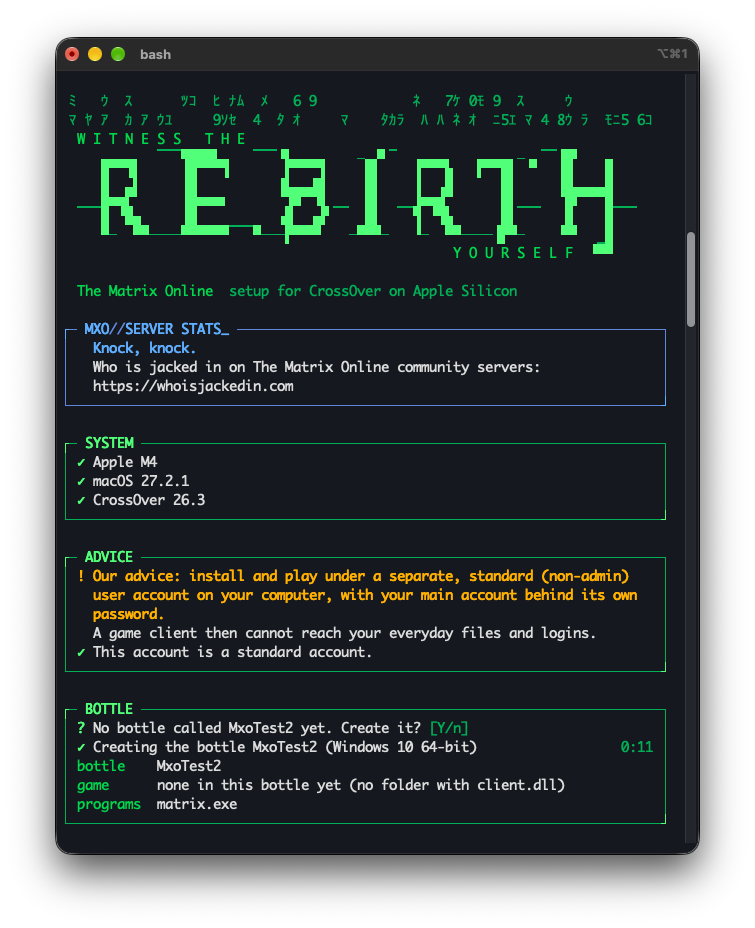
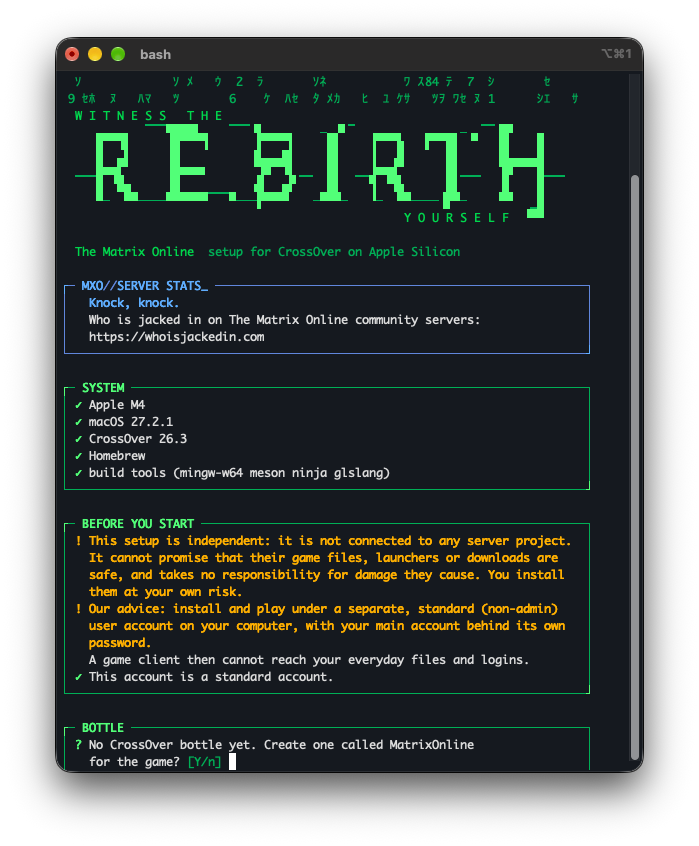
docs: say how long the setup takes and show it as it looks now (#9)
Docs

- README, "What you need": with Homebrew and the build tools in place
the setup does the rest by itself, in about 4 minutes on the M4 test
machine from a new bottle to "Done". A slower connection or an older Mac
takes longer.
- `docs/quick-start.md`, step 6: the same figure in place of "The build
takes 5 to 10 minutes".
- `docs/building.md` and the setup's build line: "a few minutes" in
place of "5 to 10 minutes". The build took about one minute on the M4.
- `docs/setup.png`: a new screenshot with the five-line system check and
the notice before the setup starts, and a caption that matches it.

diff --git a/README.md b/README.md
@@ -41,6 +41,10 @@ MxO Revived at 63 fps, in a window on a 3440×1440 screen.
 
 The setup checks all of this before it changes anything, and says what is missing.
 
+With these in place the setup does everything else by itself. On the M4 test machine it took
+about 4 minutes from a new bottle to "Done". It downloads the game (1.3 GB) and builds the
+speed-up, so a slower connection or an older Mac takes longer.
+
 Tested on an M4 (macOS 27, CrossOver 26.3) and on an M1, the first Apple Silicon chip, so every
 Apple Silicon Mac should run it. The setup can download the game itself.
 
@@ -67,7 +71,7 @@ Everything can also be done by hand, without the script:
 [docs/crossover.md](docs/crossover.md) sets up the bottle and the game, and
 [docs/building.md](docs/building.md#build) builds and installs the speed-up.
 
-![The setup in a Terminal window: its opening words, the frame of the server stats site, the system check, its advice on a separate account and a new bottle being made](docs/setup.png)
+![The setup in a Terminal window: its opening words, the frame of the server stats site, the system check, its notice and advice before it starts, and the question about a new bottle](docs/setup.png)
 
 The setup asks a few questions and then does the rest:
 

diff --git a/docs/quick-start.md b/docs/quick-start.md
@@ -30,7 +30,8 @@ at your own risk ([README](../README.md)).
 5. **Revived only: click through the two installers that open,** Microsoft's .NET and then
    Revived's. When Revived's asks where The Matrix Online is installed, choose `C:\Games\MxO`.
    Keep the folder it offers for Revived itself, and do not start the game from there.
-6. **Wait for "Done".** The build takes 5 to 10 minutes.
+6. **Wait for "Done".** On the M4 test machine the whole setup took about 4 minutes. The
+   download of the game and the build take most of it.
 7. **Make an account** with the server you want to play on: [MxO Rejacked](https://mxo-rejacked.com),
    [MxO Revived](https://mxorevived.com) or [MxOEmu](https://mxoemu.info).
 8. **Play.** In CrossOver, open the bottle `MatrixOnline`, start the launcher, sign in and press

diff --git a/docs/building.md b/docs/building.md
@@ -115,7 +115,7 @@ scripts/build.sh "/path/to/your/client.dll"
 `brew install` works only in the account that installed Homebrew. The build itself runs in any
 account once the tools are there.
 
-`client.dll` is the one in your game folder. After five to ten minutes the result is
+`client.dll` is the one in your game folder. After a few minutes the result is
 `build/d3d9.dll`. The script
 
 1. downloads the compiler ([llvm-mingw](https://github.com/mstorsjo/llvm-mingw) 20261104,
